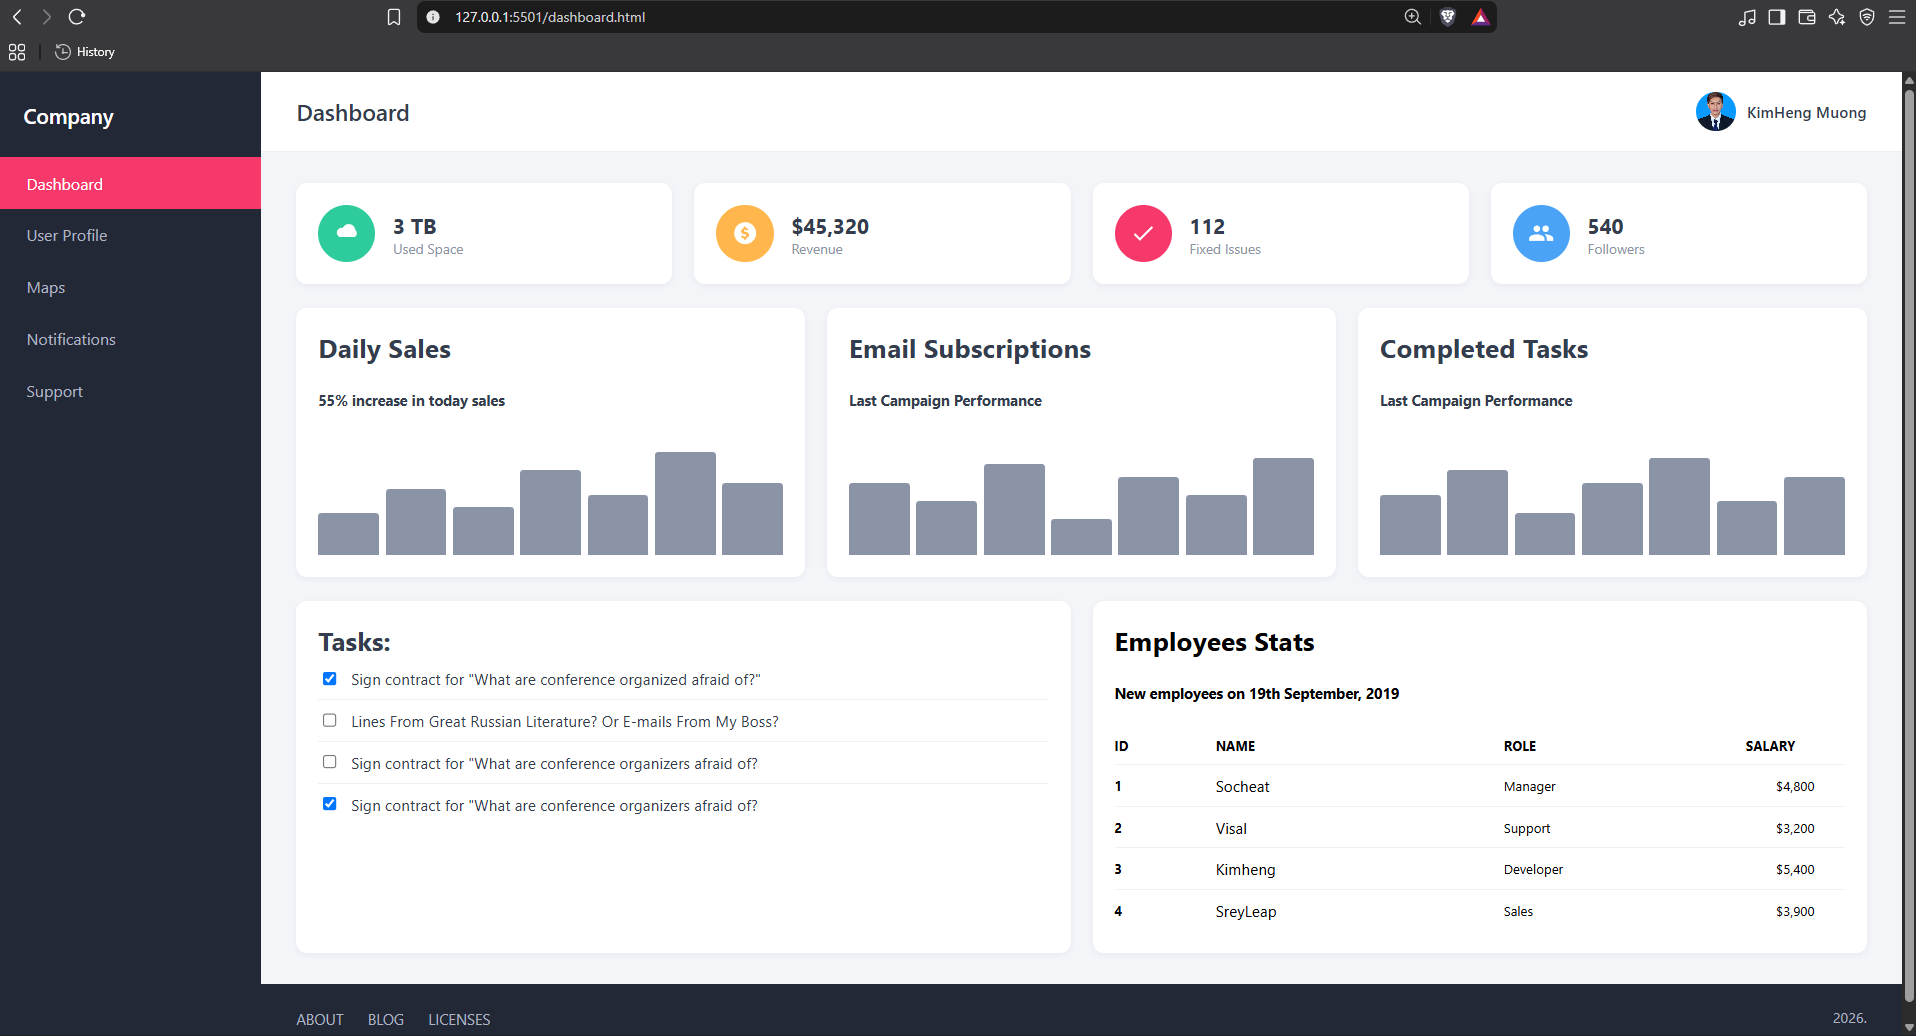
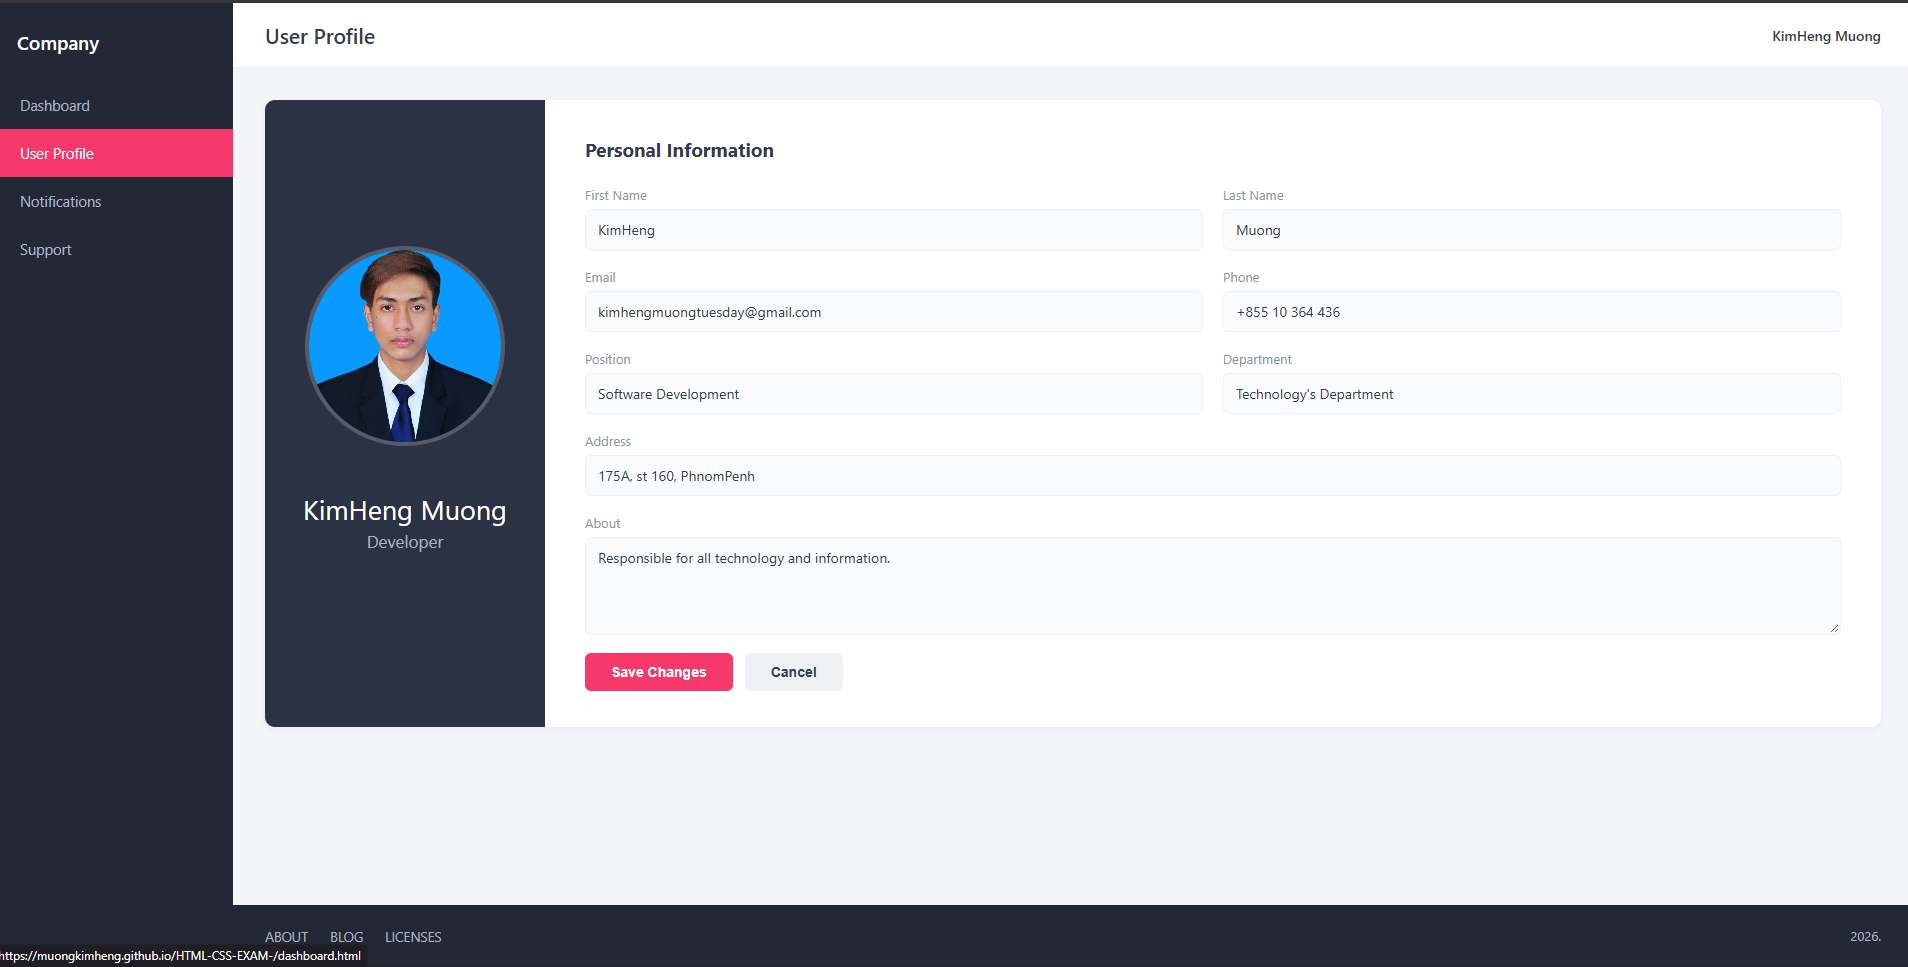
initail commit

diff --git a/index.html b/index.html
@@ -112,7 +112,7 @@
             <article>
               <img src="./assets/checkmark.png" alt="languages icon" class="icon" />
               <div>
-                <h3>HTML&CSS</h3>
+                <h3>Git</h3>
               </div>
             </article>
             <article>
@@ -124,7 +124,7 @@
             <article>
               <img src="./assets/checkmark.png" alt="languages icon" class="icon" />
               <div>
-                <h3>JavaScript</h3>
+                <h3>Figma</h3>
               </div>
             </article>
             <article>
@@ -136,13 +136,13 @@
             <article>
               <img src="./assets/checkmark.png" alt="languages icon" class="icon" />
               <div>
-                <h3>Figma</h3>
+                <h3>HTML&CSS</h3>
               </div>
             </article>
             <article>
               <img src="./assets/checkmark.png" alt="languages icon" class="icon" />
               <div>
-                <h3>Git</h3>
+                <h3>JavaScript</h3>
               </div>
             </article>
           </div>
@@ -189,8 +189,13 @@
           </div>
           <h2 class="experience-sub-title project-title">HTML/CSS's Project</h2>
           <div class="btn-container">
-            <button class="btn btn-color-2 project-btn" onclick="location.href='https://github.com/MuongKimHeng/HTML-CSS-EXAM-.git'">
+            <button class="btn btn-color-2 project-btn"
+              onclick="location.href='https://github.com/MuongKimHeng/HTML-CSS-EXAM-.git'">
               Github
+            </button>
+            <button class="btn btn-color-2 project-btn"
+              onclick="location.href='https://muongkimheng.github.io/HTML-CSS-EXAM-/'">
+              Live Demo
             </button>
 
           </div>
@@ -201,8 +206,13 @@
           </div>
           <h2 class="experience-sub-title project-title">JavaScript's Project</h2>
           <div class="btn-container">
-            <button class="btn btn-color-2 project-btn" onclick="location.href='https://github.com/MuongKimHeng/Librarian_Book_Track.git'">
+            <button class="btn btn-color-2 project-btn"
+              onclick="location.href='https://github.com/MuongKimHeng/Librarian_Book_Track.git'">
               Github
+            </button>
+            <button class="btn btn-color-2 project-btn"
+              onclick="location.href=' https://muongkimheng.github.io/Librarian_Book_Track/'">
+              Live Demo
             </button>
 
           </div>
@@ -213,12 +223,10 @@
           </div>
           <h2 class="experience-sub-title project-title">Django WebApp's Project</h2>
           <div class="btn-container">
-            <button class="btn btn-color-2 project-btn" onclick="location.href='https://github.com/'">
+            <button class="btn btn-color-2 project-btn" onclick="location.href='https://github.com/MuongKimHeng/_Django_.git'">
               Github
             </button>
-            <button class="btn btn-color-2 project-btn" onclick="location.href='https://github.com/'">
-              Live Demo
-            </button>
+
           </div>
         </div>
       </div>
@@ -236,7 +244,7 @@
       </div>
       <div class="contact-info-container">
         <img src="./assets/phone.png" alt="phone icon" class="icon contact-icon" />
-        <p>+855 10 364 436</a></p>
+        <p><a href="tel:+85510364436">+855 10 364 436</a></p>
       </div>
     </div>
   </section>
